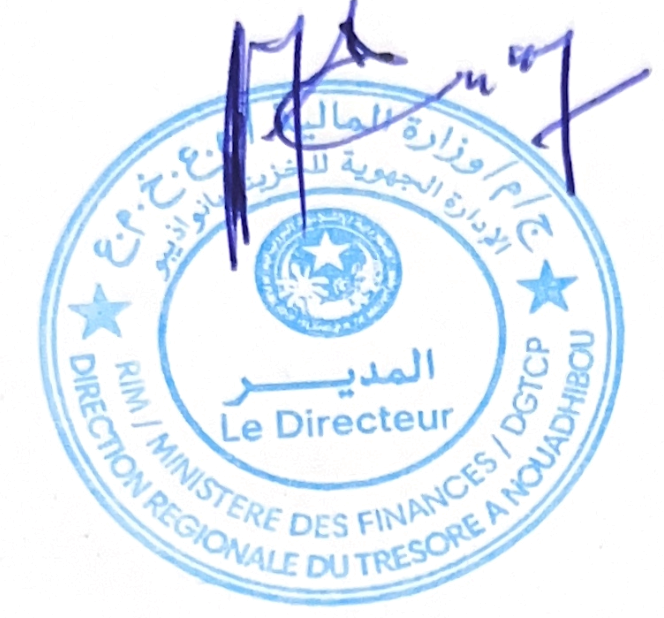
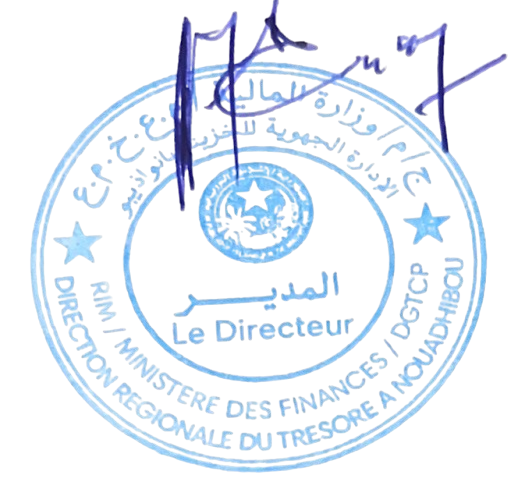
remove signature background

diff --git a/tresor_frontend/src/components/collection_operation_dialog.tsx b/tresor_frontend/src/components/collection_operation_dialog.tsx
@@ -12,9 +12,8 @@ import { FilledButton, OutlinedButton } from "./buttons";
 import { PrintIcon } from "./icons";
 import { useReactToPrint } from "react-to-print";
 import { PrintPage } from "./print_page";
-import { PrintButton, Select } from "./comps";
+import { PrintButton, Select, Signature } from "./comps";
 import { formatAmount, numberToFrench } from "../logiC/utils";
-import signature from "../assets/signature.png";
 
 export default function CollectionOpearionDetailDialog({ id }: { id: number }) {
   const printRef = useRef<HTMLDivElement>(null);
@@ -354,9 +353,7 @@ export default function CollectionOpearionDetailDialog({ id }: { id: number }) {
                     <div className="mt-4 self-end text-center flex flex-col font-semibold items-end">
                       <span className="text-center mr-5">Le Directeur</span>
                       <span className="text-center">Mohamed ZEIDANE</span>
-                      {showSignature && isAdmin && (
-                        <img src={signature} className="w-24 h-24 mr-4 mt-2" />
-                      )}
+                      {showSignature && isAdmin && <Signature />}
                     </div>
                   </PrintPage>
                 ))}
@@ -450,9 +447,7 @@ export default function CollectionOpearionDetailDialog({ id }: { id: number }) {
                 <div className="mt-4 self-end text-centerr flex flex-col font-semibold items-end">
                   <span className="text-center mr-5">Le Directeur</span>
                   <span className="text-center">Mohamed ZEIDANE</span>
-                  {showSignature && isAdmin && (
-                    <img src={signature} className="w-24 h-24 mr-4 mt-2" />
-                  )}
+                  {showSignature && isAdmin && <Signature />}
                 </div>
               </PrintPage>
             )}

diff --git a/tresor_frontend/src/components/disbusement_operation_dialog.tsx b/tresor_frontend/src/components/disbusement_operation_dialog.tsx
@@ -11,9 +11,8 @@ import { FilledButton, OutlinedButton } from "./buttons";
 import { PrintIcon } from "./icons";
 import { useReactToPrint } from "react-to-print";
 import { PrintPage } from "./print_page";
-import { PrintButton, Select } from "./comps";
+import { PrintButton, Select, Signature } from "./comps";
 import { formatAmount, numberToFrench } from "../logiC/utils";
-import signature from "../assets/signature.png";
 
 export default function DisbursementOperationDetailDialog({
   id,
@@ -326,9 +325,7 @@ export default function DisbursementOperationDetailDialog({
                     <div className="mt-4 self-end text-centerr flex flex-col font-semibold items-end">
                       <span className="text-center mr-5">Le Directeur</span>
                       <span className="text-center">Mohamed ZEIDANE</span>
-                      {showSignature && isAdmin && (
-                        <img src={signature} className="w-24 h-24 mr-4 mt-2" />
-                      )}
+                      {showSignature && isAdmin && <Signature />}
                     </div>
                   </PrintPage>
                 ))}
@@ -410,9 +407,7 @@ export default function DisbursementOperationDetailDialog({
                 <div className="mt-4 self-end text-centerr flex flex-col font-semibold items-end">
                   <span className="text-center mr-5">Le Directeur</span>
                   <span className="text-center">Mohamed ZEIDANE</span>
-                  {showSignature && isAdmin && (
-                    <img src={signature} className="w-24 h-24 mr-4 mt-2" />
-                  )}
+                  {showSignature && isAdmin && <Signature />}
                 </div>
               </PrintPage>
             )}

diff --git a/tresor_frontend/src/components/comps.tsx b/tresor_frontend/src/components/comps.tsx
@@ -6,6 +6,7 @@ import axios from "axios";
 import * as Popover from "@radix-ui/react-popover";
 import { rootUrl } from "../constants";
 import { OutlinedButton } from "./buttons";
+import signature from "../assets/signature.png";
 // h1props is a type that represents the props that can be passed to an h1 element
 export function Title({
   children,
@@ -328,4 +329,8 @@ export function PrintButton({
       </OutlinedButton>
     </div>
   );
+}
+
+export function Signature() {
+  return <img src={signature} className="w-[4.6cm] h-[4.6cm] mr-4 mt-2" />;
 }

diff --git a/tresor_frontend/src/components/print_page.tsx b/tresor_frontend/src/components/print_page.tsx
@@ -2,7 +2,6 @@ import rim from "../assets/rim.png";
 import qrcode from "../assets/qr_code.jpg";
 import joumhouria from "../assets/joumhouria_image.png";
 import { useContext, useEffect, useRef, useState } from "react";
-import signature from "../assets/signature.png";
 import { AuthContext } from "../App";
 
 function formatDate(date: string) {
